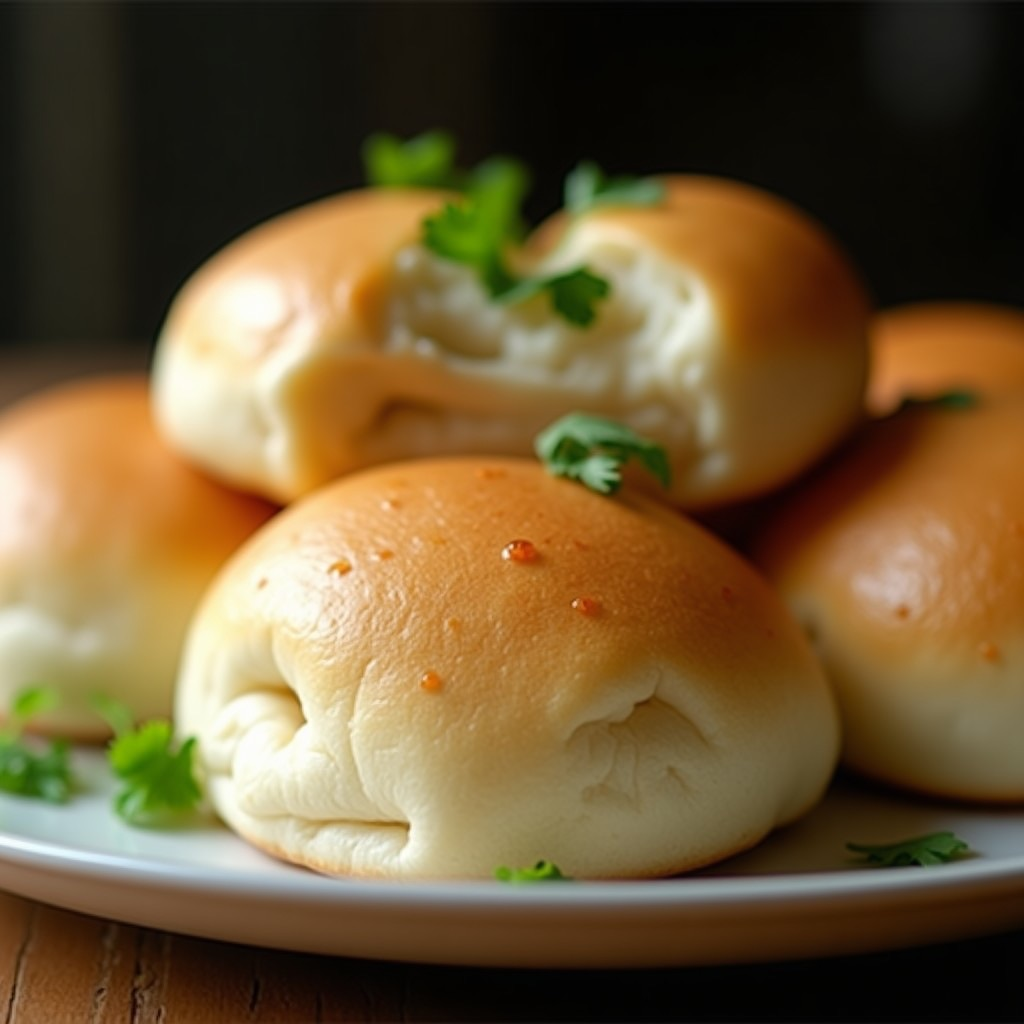
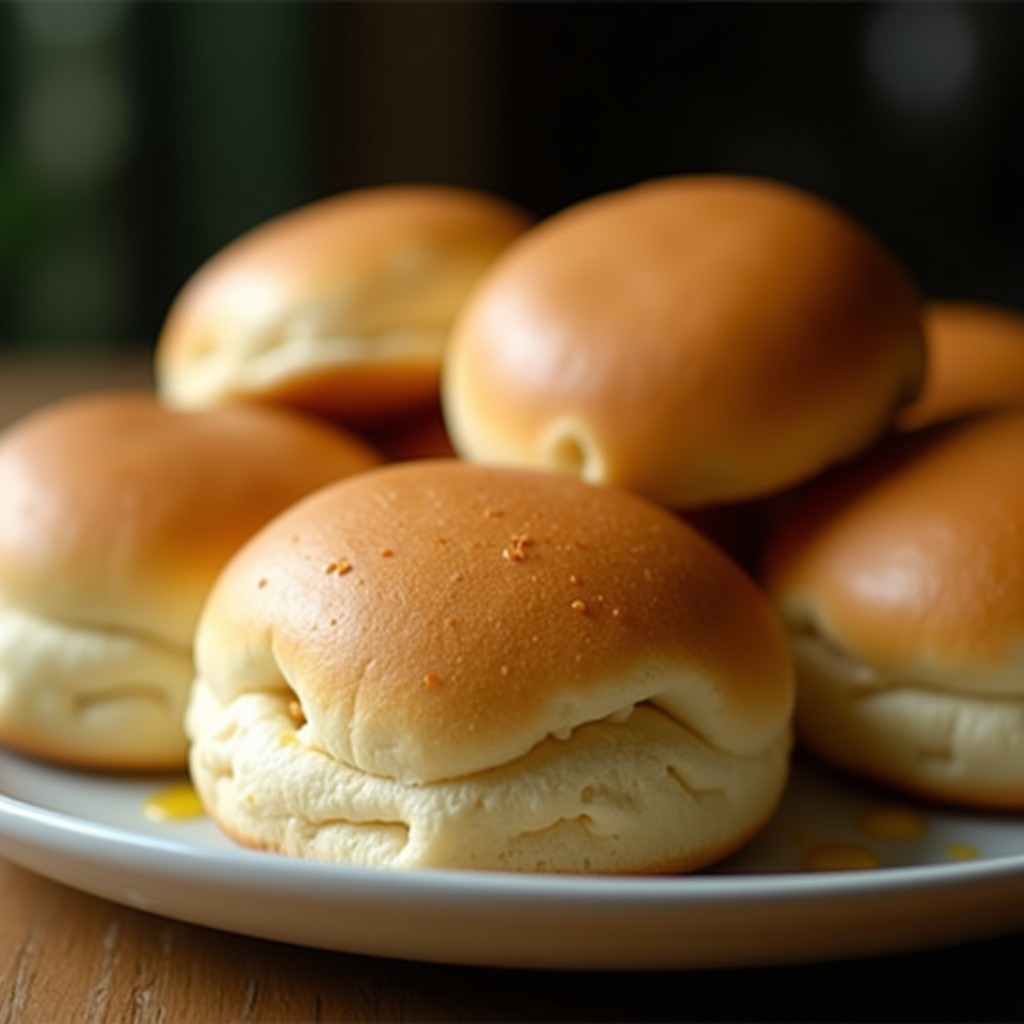
fix(data): reshoot pav photo without coriander
Pav (id 281) is a bare bread, but the shared photo prompt skeleton
unconditionally named "coriander" in its garnish clause, and FLUX
sprinkled coriander on the rolls even though the detail line said "no
garnish" (FLUX renders a named token even under a negation). Three
detail-line-only attempts failed.

Regenerated pav.jpg with the conditional-garnish skeleton fix (PR #121,
chore/photo-skeleton-conditional-garnish), which suppresses the
coriander clause when the detail line says "no garnish". This commit
carries only the resulting data files: the tooling change lives solely
in PR #121. Also tightened the pav detail line to push true ladi pav
(smooth domed tops, soft white crumb where slit, no sesame/burger-bun
priors) while keeping the "no garnish" opt-out that triggers the fix.

Eye review: golden pull-apart ladi pav on a plain plate, no coriander
or green flecks, matte and candid, food well inside the frame.

diff --git a/data/dish-photos/details.md b/data/dish-photos/details.md
@@ -183,7 +183,7 @@ papaya-bowl | Bright salmon-orange ripe papaya cut in clean firm cubes, matte no
 pasta-pomodoro | Pasta generously coated in a smooth glossy red-orange tomato sauce that clings (not watery, not bare nests); a few torn fresh basil leaves on top; no cheese drift, light olive-oil sheen.
 pasta-primavera | Just-firm pasta tossed with bright crisp green broccoli florets, red/green capsicum strips and peas in a light glossy oil sheen (NOT creamy white sauce); fine grated cheese dusting; vegetables visible throughout.
 patatas-bravas | Deep-golden crisp-edged potato cubes piled up, partly draped with a thick smoky brick-red paprika-tomato sauce spooned over (not submerged); rustic, tapas-style.
-pav | A cluster of soft pull-apart Indian ladi pav dinner rolls joined at the sides, pale golden-brown domed tops with a light butter sheen, soft fluffy white crumb where slit; matte and candid, plain, no garnish, no filling, served on a plain plate.
+pav | A cluster of soft pull-apart Indian ladi pav joined at the sides, smooth plain golden-brown domed tops with an even butter sheen, true ladi pav (not sesame-topped burger buns, no seeds, no toppings), soft fluffy white crumb showing where the rolls are slit; matte and candid, plain, no garnish, no filling, served on a plain plate.
 pav-bhaji | Thick coarse-mashed reddish-brown bhaji with visible mash texture and a glossy butter pat melting on top, flecks of coriander; served beside two soft butter-toasted pav buns, raw chopped onion and a lemon wedge.
 peach-bowl | Fresh ripe peach cut into slices, soft golden-yellow flesh with a blush of red at the skin edge, loose in a plain bowl; clearly sliced wedges, not a whole uncut peach; no syrup, no other fruit, no garnish.
 peanut-chutney | A thick coarse pale peanut paste in a small bowl (not a soup), slightly grainy texture (not smooth); topped with a curry-leaf and mustard-seed tempering visible as dark specks and whole curry leaves in oil.